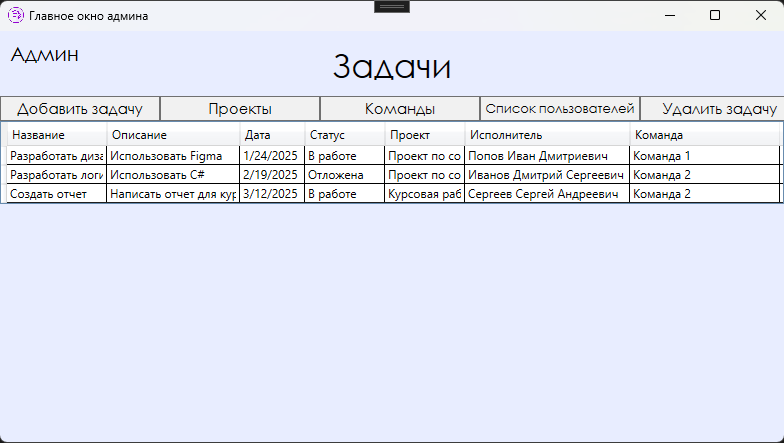
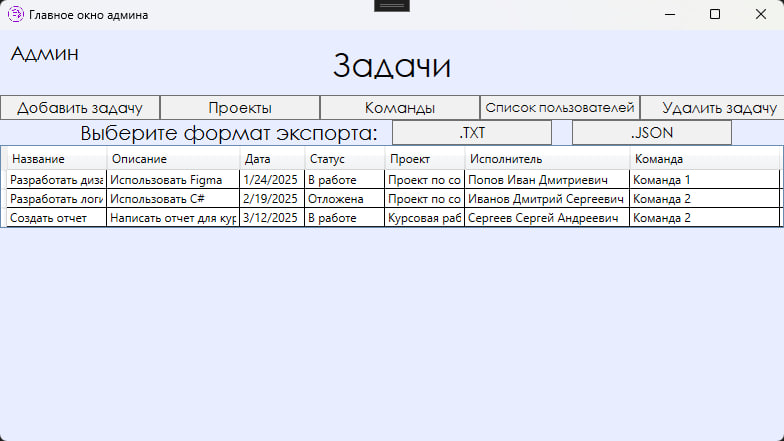
five

diff --git a/TaskManager/WindowTasks.xaml b/TaskManager/WindowTasks.xaml
@@ -16,6 +16,9 @@
                 <Button Height="25" Width="160" Margin="480 -25 0 0" HorizontalAlignment="Left" Background="#FFF1F1F1" Content="Личный кабинет" FontSize="15" FontFamily="Century Gothic" Name="AccountButton" Click="AccountButton_Click"></Button>
                 <Button Height="25" Width="158" Margin="640 -25 0 0" HorizontalAlignment="Left" Background="#FFF1F1F1" Content="Удалить задачу" FontSize="15" FontFamily="Century Gothic" Name="DeleteTask" Click="DeleteTask_Click"></Button>
             </StackPanel>
+            <TextBlock Text="Выберите формат экспорта: " Margin="80 0 0 -25" FontSize="20" HorizontalAlignment="Left" FontFamily="Century Gothic"></TextBlock>
+            <Button Height="25" Width="160" Margin="160 0 0 0" Background="#FFF1F1F1" Content=".TXT" Name="TXTButton" FontSize="15" FontFamily="Century Gothic" Click="TXTButton_Click"></Button>
+            <Button Height="25" Width="160" Margin="520 -25 0 0" Background="#FFF1F1F1" Content=".JSON" Name="JSONButton" FontSize="15" FontFamily="Century Gothic" Click="JSONButton_Click"></Button>
             <DataGrid IsReadOnly="True" AutoGenerateColumns="False" x:Name="DataGridTasks" MouseDoubleClick="DataGridTasks_MouseDoubleClick">
                 <DataGrid.Columns>
                     <DataGridTextColumn Width="100" MaxWidth="100" MinWidth="100" Header="Название" Binding="{Binding Path=NameTask}"></DataGridTextColumn>

diff --git a/TaskManager/WindowTasksAdmin.xaml b/TaskManager/WindowTasksAdmin.xaml
@@ -17,6 +17,9 @@
                 <Button Height="25" Width="160" Margin="480 -25 0 0" HorizontalAlignment="Left" Background="#FFF1F1F1" Content="Список пользователей" Name="ListUser" FontSize="13" FontFamily="Century Gothic" Click="ListUser_Click"></Button>
                 <Button Height="25" Width="160" Margin="640 -25 0 0" HorizontalAlignment="Left" Background="#FFF1F1F1" Content="Удалить задачу" FontSize="15" FontFamily="Century Gothic" Name="DeleteTask" Click="DeleteTask_Click"></Button>
             </StackPanel>
+            <TextBlock Text="Выберите формат экспорта: " Margin="80 0 0 -25" FontSize="20" HorizontalAlignment="Left" FontFamily="Century Gothic"></TextBlock>
+            <Button Height="25" Width="160" Margin="160 0 0 0" Background="#FFF1F1F1" Content=".TXT" Name="TXTButton" FontSize="15" FontFamily="Century Gothic" Click="TXTButton_Click"></Button>
+            <Button Height="25" Width="160" Margin="520 -25 0 0" Background="#FFF1F1F1" Content=".JSON" Name="JSONButton" FontSize="15" FontFamily="Century Gothic" Click="JSONButton_Click"></Button>
             <DataGrid IsReadOnly="True" AutoGenerateColumns="False" x:Name="DataGridTasks">
                 <DataGrid.Columns>
                     <DataGridTextColumn Width="100" MaxWidth="100" MinWidth="100" Header="Название" Binding="{Binding Path=NameTask}"></DataGridTextColumn>

diff --git a/TaskManager/WindowTasks.xaml.cs b/TaskManager/WindowTasks.xaml.cs
@@ -20,6 +20,7 @@ namespace TaskManager
     /// </summary>
     public partial class WindowTasks : Window
     {
+        TaskManagerDBEntities taskManagerDBEntities = new TaskManagerDBEntities();
         private TaskManagerDBEntities _context;
         private Users _currentUser;
         public WindowTasks(Users currentUser)
@@ -94,6 +95,67 @@ namespace TaskManager
             AccountWindow accountWindow = new AccountWindow(_currentUser, _context);
             accountWindow.Show();
             this.Close();
+        }
+        private void TXTButton_Click(object sender, RoutedEventArgs e)
+        {
+            var tasks = DataGridTasks.ItemsSource as IEnumerable<Tasks>;
+            if (tasks == null)
+            {
+                MessageBox.Show("Нет данных для экспорта.", "Ошибка", MessageBoxButton.OK, MessageBoxImage.Warning);
+                return;
+            }
+
+            var saveFileDialog = new Microsoft.Win32.SaveFileDialog
+            {
+                Filter = "Text files (*.txt)|*.txt",
+                DefaultExt = ".txt",
+                FileName = "tasks_export.txt"
+            };
+
+            if (saveFileDialog.ShowDialog() == true)
+            {
+                using (var writer = new System.IO.StreamWriter(saveFileDialog.FileName))
+                {
+                    foreach (var task in tasks)
+                    {
+                        writer.WriteLine($"Название: {task.NameTask}");
+                        writer.WriteLine($"Описание: {task.Description}");
+                        writer.WriteLine($"Дата: {task.Data}");
+                        writer.WriteLine($"Статус: {task.Status.NameStatus}");
+                        writer.WriteLine($"Проект: {task.Project.NameProject}");
+                        writer.WriteLine($"Исполнитель: {task.Users.FullName}");
+                        writer.WriteLine($"Команда: {task.Teams.NameTeam}");
+                        writer.WriteLine(new string('-', 50));
+                    }
+                }
+
+                MessageBox.Show("Данные успешно экспортированы в TXT.", "Успех", MessageBoxButton.OK, MessageBoxImage.Information);
+            }
+        }
+
+        private void JSONButton_Click(object sender, RoutedEventArgs e)
+        {
+            var tasks = DataGridTasks.ItemsSource as IEnumerable<Tasks>;
+            if (tasks == null)
+            {
+                MessageBox.Show("Нет данных для экспорта.", "Ошибка", MessageBoxButton.OK, MessageBoxImage.Warning);
+                return;
+            }
+
+            var saveFileDialog = new Microsoft.Win32.SaveFileDialog
+            {
+                Filter = "JSON files (*.json)|*.json",
+                DefaultExt = ".json",
+                FileName = "tasks_export.json"
+            };
+
+            if (saveFileDialog.ShowDialog() == true)
+            {
+                var json = Newtonsoft.Json.JsonConvert.SerializeObject(tasks, Newtonsoft.Json.Formatting.Indented);
+                System.IO.File.WriteAllText(saveFileDialog.FileName, json);
+
+                MessageBox.Show("Данные успешно экспортированы в JSON.", "Успех", MessageBoxButton.OK, MessageBoxImage.Information);
+            }
         }
     }
 }

diff --git a/TaskManager/WindowTasksAdmin.xaml.cs b/TaskManager/WindowTasksAdmin.xaml.cs
@@ -11,6 +11,10 @@ using System.Windows.Input;
 using System.Windows.Media;
 using System.Windows.Media.Imaging;
 using System.Windows.Shapes;
+using Microsoft.Win32;
+using System.IO;
+using Newtonsoft.Json;
+using Formatting = Newtonsoft.Json.Formatting;
 
 namespace TaskManager
 {
@@ -94,6 +98,68 @@ namespace TaskManager
             ListUserWindow listUserWindow = new ListUserWindow(_currentUser);
             listUserWindow.Show();
             this.Close();
+        }
+
+        private void TXTButton_Click(object sender, RoutedEventArgs e)
+        {
+            var tasks = DataGridTasks.ItemsSource as IEnumerable<Tasks>;
+            if (tasks == null)
+            {
+                MessageBox.Show("Нет данных для экспорта.", "Ошибка", MessageBoxButton.OK, MessageBoxImage.Warning);
+                return;
+            }
+
+            var saveFileDialog = new Microsoft.Win32.SaveFileDialog
+            {
+                Filter = "Text files (*.txt)|*.txt",
+                DefaultExt = ".txt",
+                FileName = "tasks_export.txt"
+            };
+
+            if (saveFileDialog.ShowDialog() == true)
+            {
+                using (var writer = new System.IO.StreamWriter(saveFileDialog.FileName))
+                {
+                    foreach (var task in tasks)
+                    {
+                        writer.WriteLine($"Название: {task.NameTask}");
+                        writer.WriteLine($"Описание: {task.Description}");
+                        writer.WriteLine($"Дата: {task.Data}");
+                        writer.WriteLine($"Статус: {task.Status.NameStatus}");
+                        writer.WriteLine($"Проект: {task.Project.NameProject}");
+                        writer.WriteLine($"Исполнитель: {task.Users.FullName}");
+                        writer.WriteLine($"Команда: {task.Teams.NameTeam}");
+                        writer.WriteLine(new string('-', 50));
+                    }
+                }
+
+                MessageBox.Show("Данные успешно экспортированы в TXT.", "Успех", MessageBoxButton.OK, MessageBoxImage.Information);
+            }
+        }
+
+        private void JSONButton_Click(object sender, RoutedEventArgs e)
+        {
+            var tasks = DataGridTasks.ItemsSource as IEnumerable<Tasks>;
+            if (tasks == null)
+            {
+                MessageBox.Show("Нет данных для экспорта.", "Ошибка", MessageBoxButton.OK, MessageBoxImage.Warning);
+                return;
+            }
+
+            var saveFileDialog = new Microsoft.Win32.SaveFileDialog
+            {
+                Filter = "JSON files (*.json)|*.json",
+                DefaultExt = ".json",
+                FileName = "tasks_export.json"
+            };
+
+            if (saveFileDialog.ShowDialog() == true)
+            {
+                var json = Newtonsoft.Json.JsonConvert.SerializeObject(tasks, Newtonsoft.Json.Formatting.Indented);
+                System.IO.File.WriteAllText(saveFileDialog.FileName, json);
+
+                MessageBox.Show("Данные успешно экспортированы в JSON.", "Успех", MessageBoxButton.OK, MessageBoxImage.Information);
+            }
         }
     }
 }

diff --git a/TaskManager/Tasks.cs b/TaskManager/Tasks.cs
@@ -9,9 +9,10 @@
 
 namespace TaskManager
 {
+    using Newtonsoft.Json;
     using System;
     using System.Collections.Generic;
-    
+
     public partial class Tasks
     {
         public int idTask { get; set; }
@@ -22,10 +23,14 @@ namespace TaskManager
         public Nullable<int> idProject { get; set; }
         public Nullable<int> idStatus { get; set; }
         public Nullable<int> idTeam { get; set; }
-    
+
+        [JsonIgnore]
         public virtual Project Project { get; set; }
+        [JsonIgnore]
         public virtual Status Status { get; set; }
+        [JsonIgnore]
         public virtual Teams Teams { get; set; }
+        [JsonIgnore]
         public virtual Users Users { get; set; }
     }
 }
